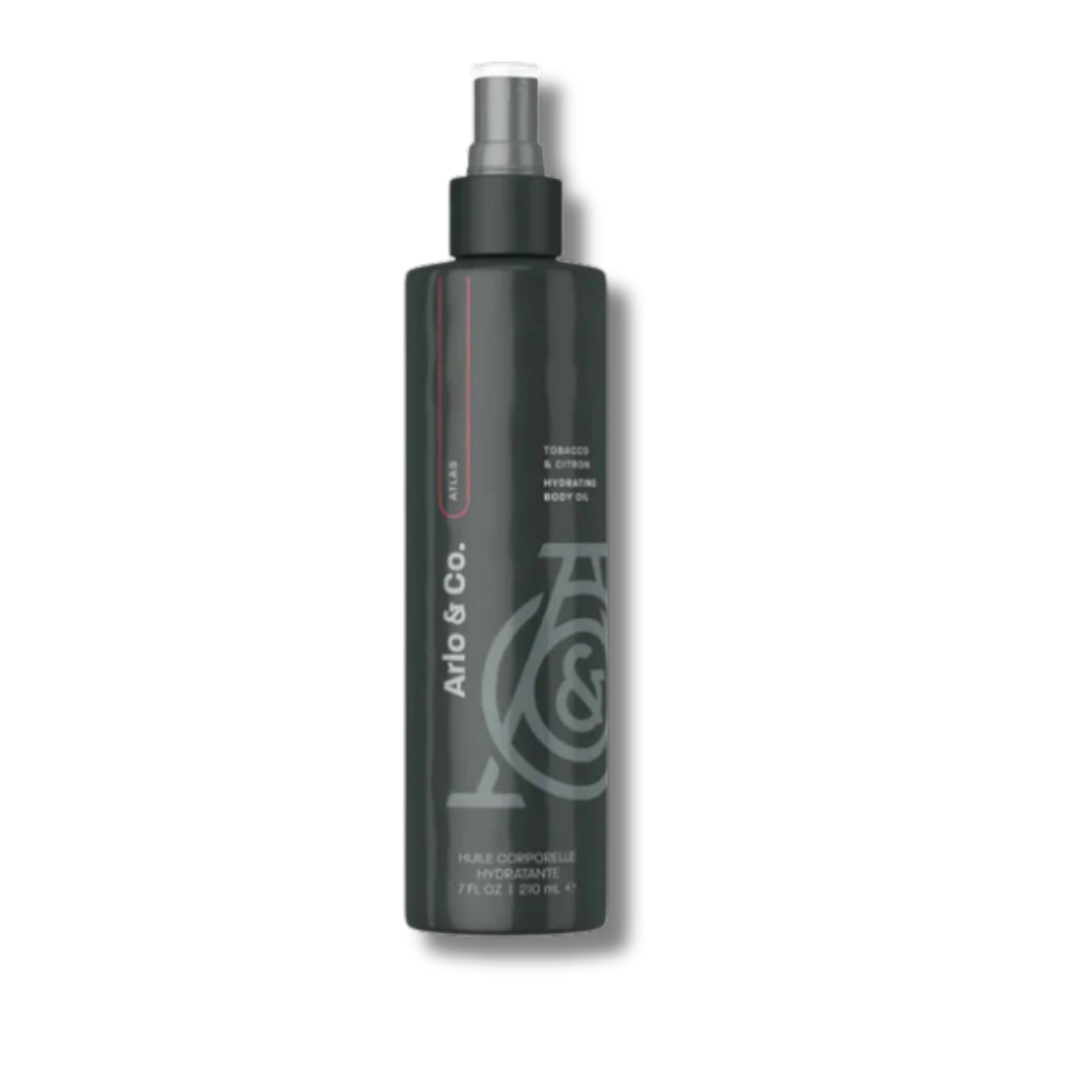
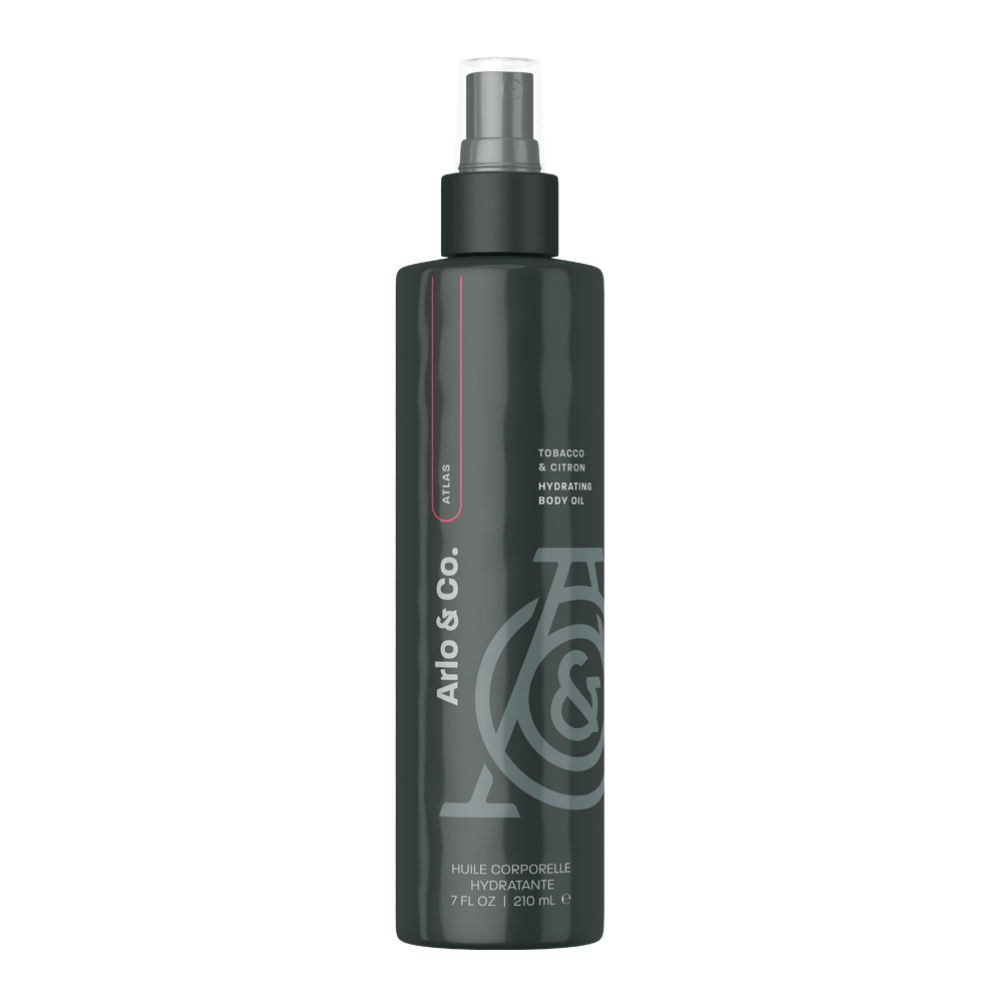
Use confirmed official packshots for the seven in-stock SKUs.
Replace hunted images with the verified high-res URLs. SKINS now uses the 2000px Delay Spray set, not the UK serum. HéLi uses the official black mist bottle. Arlo keeps Tobacco & Citron body oil, including the 3125px feature card.

Changed region(s): [[0.372, 0.062, 0.62, 0.961]]

diff --git a/lib/products.js b/lib/products.js
@@ -369,13 +369,13 @@ export const PRODUCTS = [
       'A fragrance-free delay spray for men. PROBOOST formula in an airless pump. Apply 2–6 sprays, wait about ten minutes. Partner-friendly and oral-safe. External use only.',
     shortEditorial:
       'A quiet, non-numbing delay spray. Fragrance-free. Airless pump. Wait, then continue.',
-    image: '/images/products/skins-delay/packshot.jpg',
+    image: '/images/products/skins-delay/packshot.png',
     images: [
-      { url: '/images/products/skins-delay/packshot.jpg', alt: 'SKINS Delay Spray bottle and box' },
-      { url: '/images/products/skins-delay/hero.png', alt: 'SKINS Delay Spray box and bottle, spray labeling' },
-      { url: '/images/products/skins-delay/bottle.jpg', alt: 'SKINS Delay Spray bottle, pump open' },
-      { url: '/images/products/skins-delay/details.jpg', alt: 'SKINS Delay Spray with application notes' },
-      { url: '/images/products/skins-delay/ingredients.jpg', alt: 'SKINS Delay Spray botanical formula notes' },
+      { url: '/images/products/skins-delay/packshot.png', alt: 'SKINS Delay Spray 30 ml box and bottle' },
+      { url: '/images/products/skins-delay/lifestyle.png', alt: 'SKINS Delay Spray lifestyle packshot' },
+      { url: '/images/products/skins-delay/ingredients.png', alt: 'SKINS Delay Spray botanical formula notes' },
+      { url: '/images/products/skins-delay/icons.png', alt: 'SKINS Delay Spray use notes' },
+      { url: '/images/products/skins-delay/howtouse.png', alt: 'SKINS Delay Spray how to use' },
     ],
     fulfillmentType: FULFILLMENT_TYPES.WHITE_LABEL,
     vendorType: VENDOR_TYPES.ROOM23_STOCK,
@@ -419,10 +419,10 @@ export const PRODUCTS = [
       'Water-based, pH-balanced. L-Arginine, Panax Ginseng, Ginkgo Biloba, Maca, Saw Palmetto, Catuaba. External use only.',
     specifications: '30 ml / 1 fl oz. 200+ pumps. Made in the USA in an FDA-regulated facility.',
     gallery: [
-      { url: '/images/products/skins-delay/hero.png', alt: 'SKINS Delay Spray box and bottle, spray labeling' },
-      { url: '/images/products/skins-delay/bottle.jpg', alt: 'SKINS Delay Spray bottle, pump open' },
-      { url: '/images/products/skins-delay/details.jpg', alt: 'SKINS Delay Spray with application notes' },
-      { url: '/images/products/skins-delay/ingredients.jpg', alt: 'SKINS Delay Spray botanical formula notes' },
+      { url: '/images/products/skins-delay/lifestyle.png', alt: 'SKINS Delay Spray lifestyle packshot' },
+      { url: '/images/products/skins-delay/ingredients.png', alt: 'SKINS Delay Spray botanical formula notes' },
+      { url: '/images/products/skins-delay/icons.png', alt: 'SKINS Delay Spray use notes' },
+      { url: '/images/products/skins-delay/howtouse.png', alt: 'SKINS Delay Spray how to use' },
     ],
     relatedSlugs: ['platinum-silicone-lubricant-4oz', 'cg-oh-my-warming-stimulant', 'arlo-atlas-body-oil'],
   },
@@ -440,7 +440,9 @@ export const PRODUCTS = [
     image: '/images/products/cg-oh-my/packshot.webp',
     images: [
       { url: '/images/products/cg-oh-my/packshot.webp', alt: 'CG Oh My Warming Stimulant box and tube' },
-      { url: '/images/products/cg-oh-my/box-and-tube.jpg', alt: 'CG Oh My Warming Stimulant packshot' },
+      { url: '/images/products/cg-oh-my/tube.jpg', alt: 'CG Oh My Warming Stimulant tube' },
+      { url: '/images/products/cg-oh-my/angle-1.jpg', alt: 'CG Oh My Warming Stimulant packshot, alternate angle' },
+      { url: '/images/products/cg-oh-my/angle-2.jpg', alt: 'CG Oh My Warming Stimulant packshot, box detail' },
     ],
     fulfillmentType: FULFILLMENT_TYPES.WHITE_LABEL,
     vendorType: VENDOR_TYPES.ROOM23_STOCK,
@@ -464,6 +466,8 @@ export const PRODUCTS = [
       { label: 'Free from', value: 'Fragrance, parabens, gluten, sugar, mineral oil' },
       { label: 'Size', value: '1 fl oz / 30 ml' },
       { label: 'Origin', value: 'Made in the USA' },
+      { label: 'SKU', value: 'HCGC3001-01' },
+      { label: 'UPC', value: '638258901376' },
     ],
     filters: {
       type: 'wellness',
@@ -481,9 +485,11 @@ export const PRODUCTS = [
     ],
     materials:
       'Fragrance-free warming serum. Paraben-free. Made in the USA. External use only.',
-    specifications: '1 fl oz / 30 ml squeeze tube.',
+    specifications: '1 fl oz / 30 ml squeeze tube. SKU HCGC3001-01. UPC 638258901376.',
     gallery: [
-      { url: '/images/products/cg-oh-my/box-and-tube.jpg', alt: 'CG Oh My Warming Stimulant packshot' },
+      { url: '/images/products/cg-oh-my/tube.jpg', alt: 'CG Oh My Warming Stimulant tube' },
+      { url: '/images/products/cg-oh-my/angle-1.jpg', alt: 'CG Oh My Warming Stimulant packshot, alternate angle' },
+      { url: '/images/products/cg-oh-my/angle-2.jpg', alt: 'CG Oh My Warming Stimulant packshot, box detail' },
     ],
     relatedSlugs: ['skins-delay-spray', 'cg-pole-polish', 'platinum-silicone-lubricant-2oz'],
   },
@@ -498,13 +504,11 @@ export const PRODUCTS = [
       'HéLi body mist. Lavender and chamomile with aloe and witch hazel. Light, not heavy. Spray over skin as needed.',
     shortEditorial:
       'Lavender and chamomile. Aloe. Witch hazel. A light mist, nothing heavy.',
-    image: '/images/products/heli-lavender-mist/bottle.png',
+    image: '/images/products/heli-lavender-mist/packshot.png',
     images: [
-      { url: '/images/products/heli-lavender-mist/bottle.png', alt: 'HéLi Lavender & Chamomile Refreshing Fragrance Mist bottle' },
-      { url: '/images/products/heli-lavender-mist/packshot.jpg', alt: 'HéLi Lavender & Chamomile mist, isolated' },
-      { url: '/images/products/heli-lavender-mist/botanical.png', alt: 'HéLi mist with lavender and chamomile' },
-      { url: '/images/products/heli-lavender-mist/lifestyle.jpg', alt: 'HéLi Lavender & Chamomile mist on a pedestal' },
-      { url: '/images/products/heli-lavender-mist/label-detail.png', alt: 'HéLi Lavender & Chamomile mist label' },
+      { url: '/images/products/heli-lavender-mist/packshot.png', alt: 'HéLi Lavender & Chamomile Refreshing Fragrance Mist' },
+      { url: '/images/products/heli-lavender-mist/bottle.jpg', alt: 'HéLi Lavender & Chamomile mist bottle' },
+      { url: '/images/products/heli-lavender-mist/held.jpg', alt: 'HéLi Lavender & Chamomile mist, held' },
     ],
     fulfillmentType: FULFILLMENT_TYPES.WHITE_LABEL,
     vendorType: VENDOR_TYPES.ROOM23_STOCK,
@@ -547,10 +551,8 @@ export const PRODUCTS = [
       'Lavender and chamomile with aloe and witch hazel. Light body mist. External use only.',
     specifications: '4 fl oz / 120 ml spray.',
     gallery: [
-      { url: '/images/products/heli-lavender-mist/packshot.jpg', alt: 'HéLi Lavender & Chamomile mist, isolated' },
-      { url: '/images/products/heli-lavender-mist/botanical.png', alt: 'HéLi mist with lavender and chamomile' },
-      { url: '/images/products/heli-lavender-mist/lifestyle.jpg', alt: 'HéLi Lavender & Chamomile mist on a pedestal' },
-      { url: '/images/products/heli-lavender-mist/label-detail.png', alt: 'HéLi Lavender & Chamomile mist label' },
+      { url: '/images/products/heli-lavender-mist/bottle.jpg', alt: 'HéLi Lavender & Chamomile mist bottle' },
+      { url: '/images/products/heli-lavender-mist/held.jpg', alt: 'HéLi Lavender & Chamomile mist, held' },
     ],
     relatedSlugs: ['secret-garden-fragrance-mist', 'arlo-atlas-body-oil', 'dirty-french-shower-gel'],
   },
@@ -568,6 +570,7 @@ export const PRODUCTS = [
     image: '/images/products/arlo-atlas-oil/packshot.png',
     images: [
       { url: '/images/products/arlo-atlas-oil/packshot.png', alt: 'Arlo & Co. Atlas Tobacco & Citron hydrating body oil' },
+      { url: '/images/products/arlo-atlas-oil/feature-card.jpg', alt: 'Arlo & Co. Atlas hydrating body oil feature card' },
     ],
     fulfillmentType: FULFILLMENT_TYPES.WHITE_LABEL,
     vendorType: VENDOR_TYPES.ROOM23_STOCK,
@@ -609,7 +612,9 @@ export const PRODUCTS = [
     materials:
       'Jojoba, coconut, argan, and avocado oils. Tobacco & Citron. External use only.',
     specifications: '7 fl oz / 210 ml spray. Non-greasy hydrating body oil.',
-    gallery: [],
+    gallery: [
+      { url: '/images/products/arlo-atlas-oil/feature-card.jpg', alt: 'Arlo & Co. Atlas hydrating body oil feature card' },
+    ],
     relatedSlugs: ['heli-lavender-chamomile-mist', 'dirty-french-shower-gel', 'midnight-bloom-massage-oil'],
   },
   {
@@ -747,7 +752,6 @@ export const PRODUCTS = [
     image: '/images/products/cg-pole-polish/packshot.jpg',
     images: [
       { url: '/images/products/cg-pole-polish/packshot.jpg', alt: 'CG Pole Polish Sin City Strawberry kissable massage cream' },
-      { url: '/images/products/cg-pole-polish/tube.jpg', alt: 'CG Pole Polish tube packshot' },
     ],
     fulfillmentType: FULFILLMENT_TYPES.WHITE_LABEL,
     vendorType: VENDOR_TYPES.ROOM23_STOCK,
@@ -772,6 +776,7 @@ export const PRODUCTS = [
       { label: 'Free from', value: 'Parabens, mineral oil' },
       { label: 'Size', value: '4 fl oz / 120 ml' },
       { label: 'Origin', value: 'Made in the USA' },
+      { label: 'SKU', value: 'ELCGC2102-04' },
       { label: 'Barcode', value: '638258901284' },
     ],
     filters: {
@@ -790,10 +795,8 @@ export const PRODUCTS = [
     ],
     materials:
       'Kissable massage cream. Paraben-free. Made in the USA. External use only.',
-    specifications: '4 fl oz / 120 ml. Sin City Strawberry. Barcode 638258901284.',
-    gallery: [
-      { url: '/images/products/cg-pole-polish/tube.jpg', alt: 'CG Pole Polish tube packshot' },
-    ],
+    specifications: '4 fl oz / 120 ml. Sin City Strawberry. SKU ELCGC2102-04. Barcode 638258901284.',
+    gallery: [],
     relatedSlugs: ['cg-oh-my-warming-stimulant', 'skins-delay-spray', 'platinum-silicone-lubricant-4oz'],
   },
 ]
